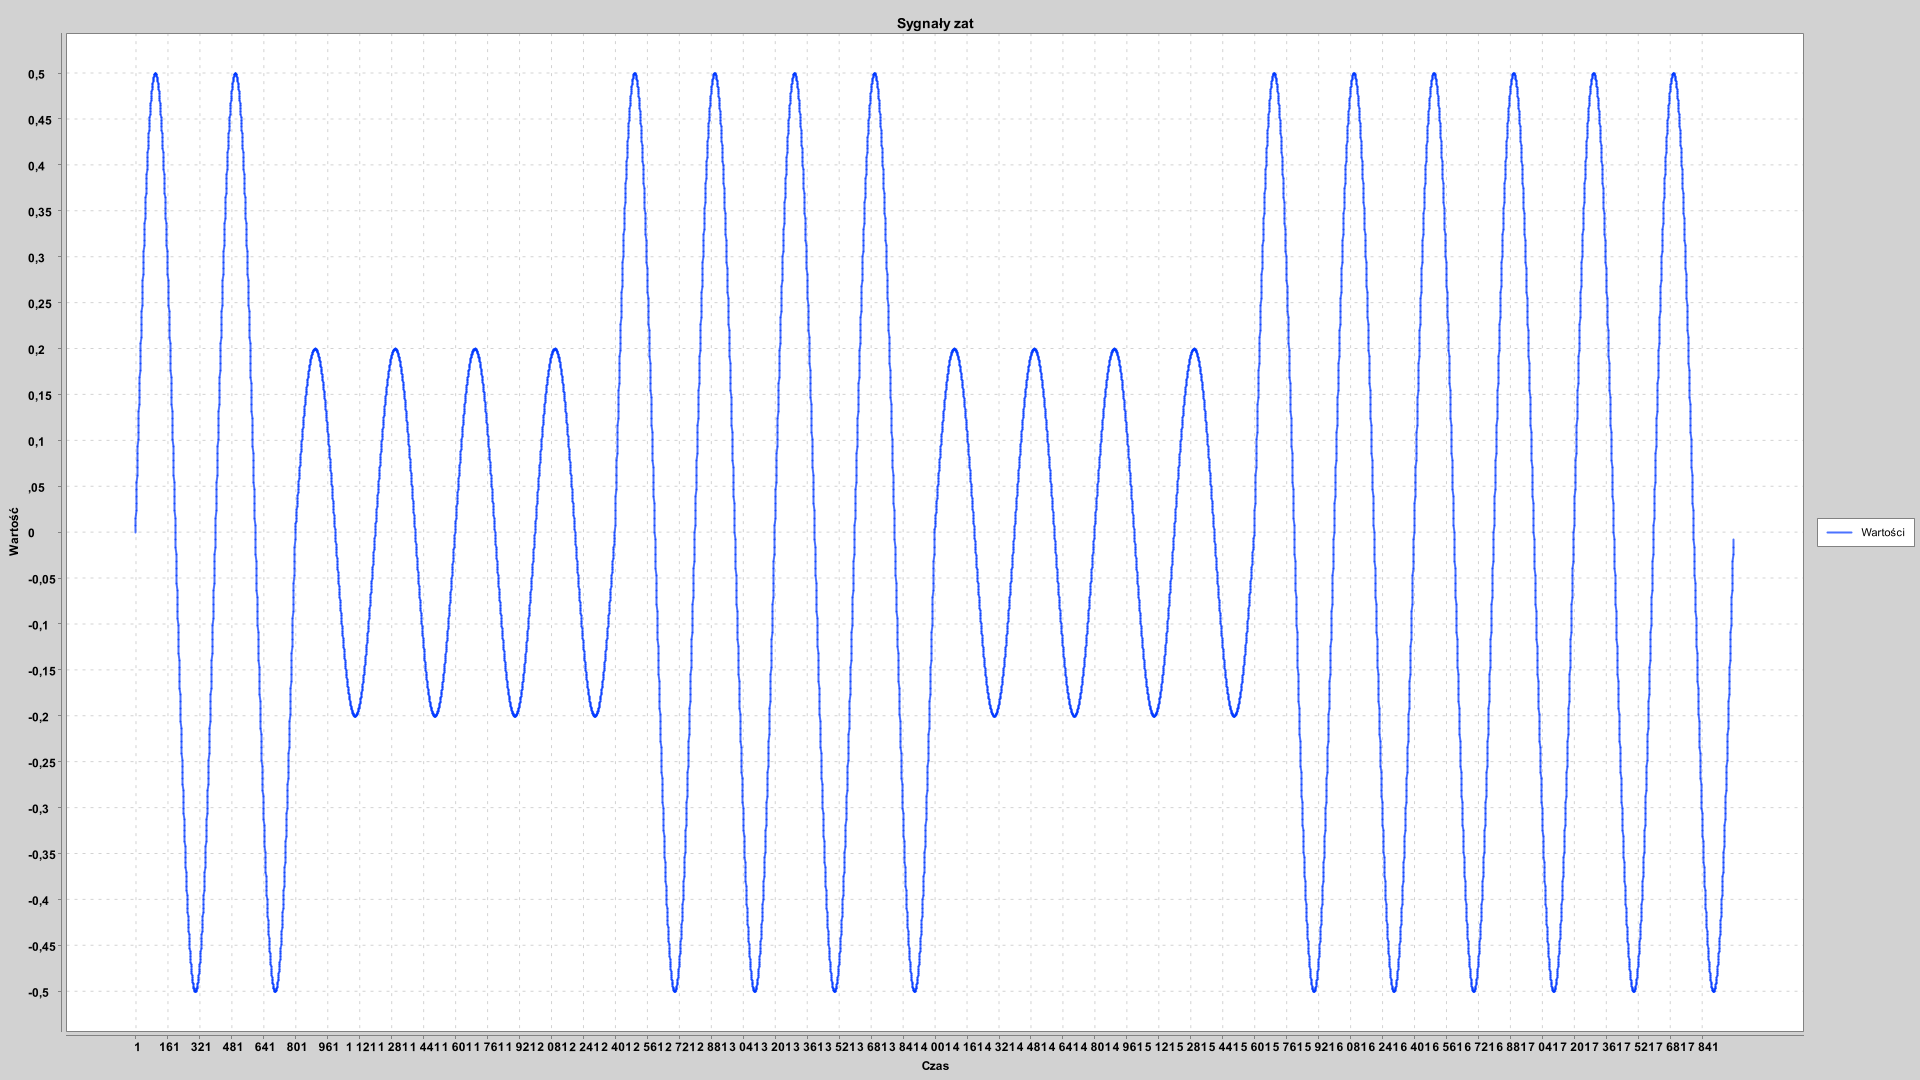
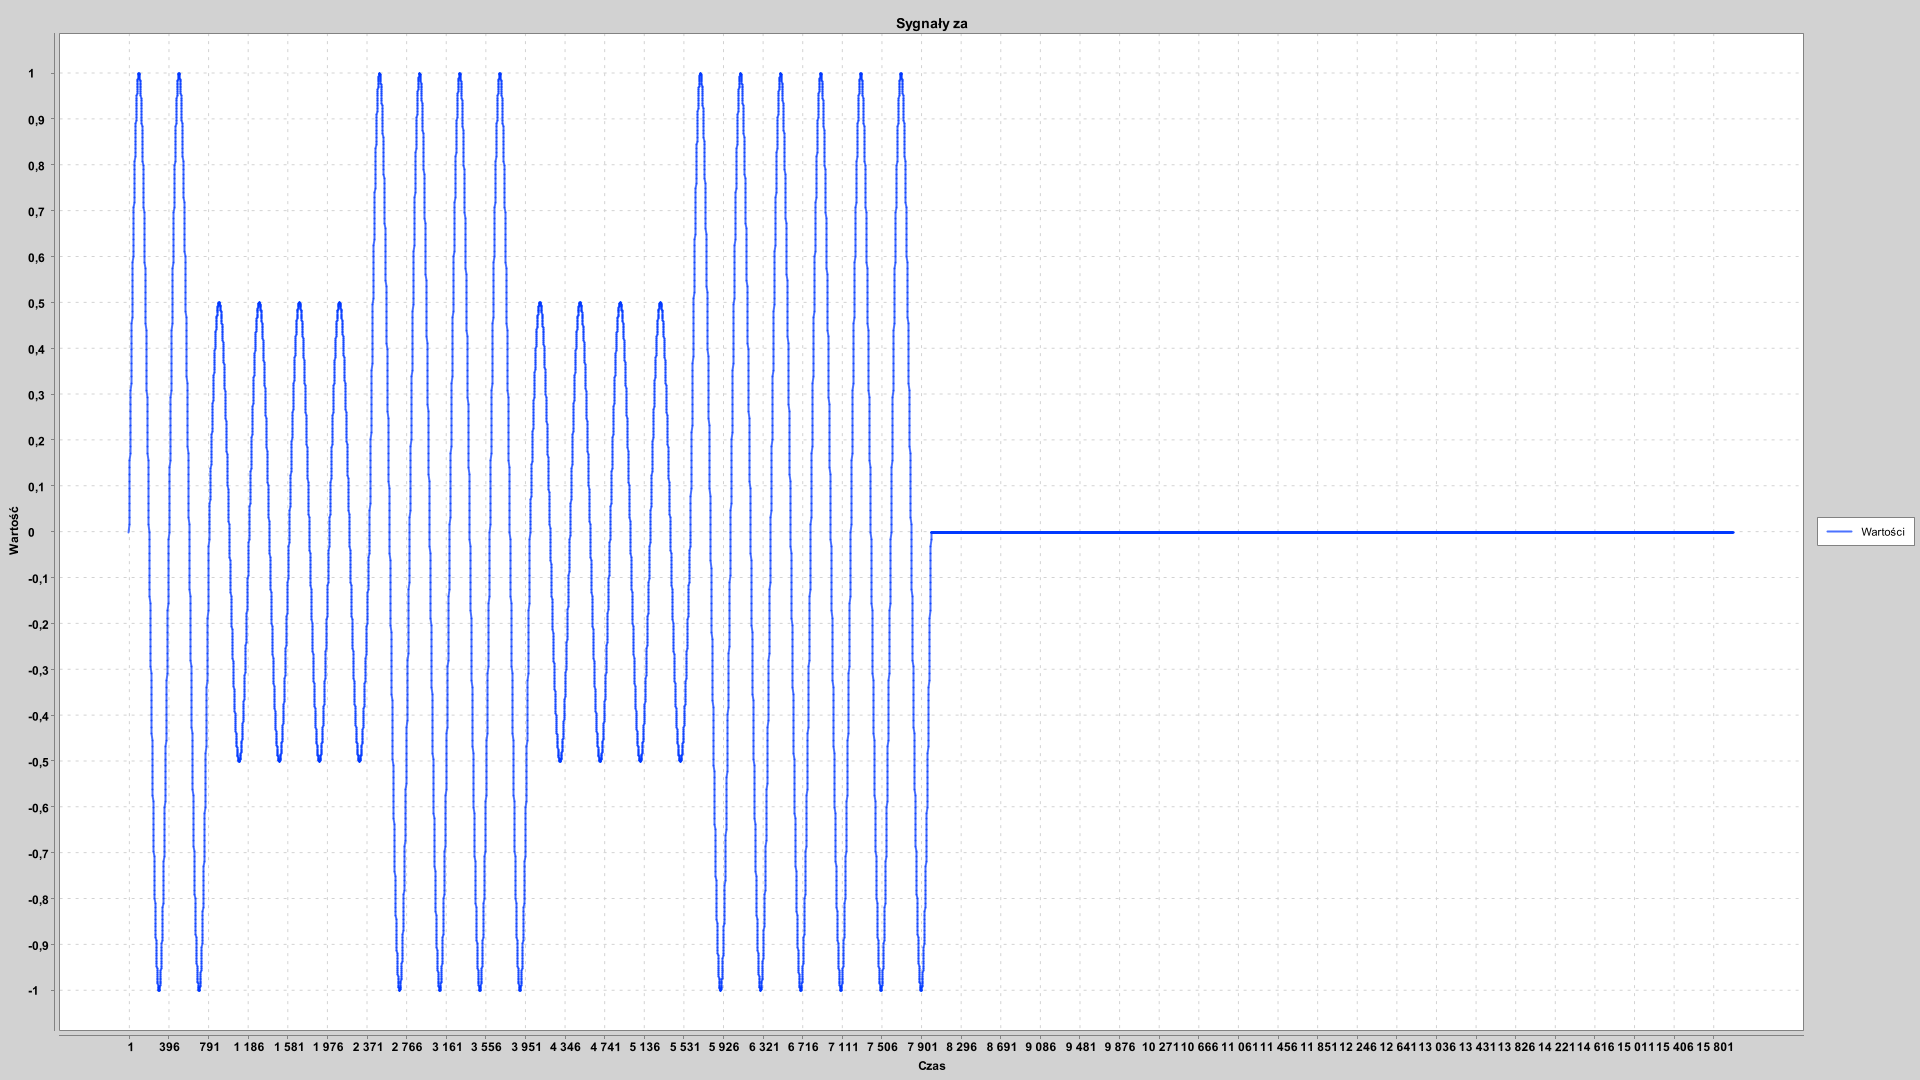
lab4 some changes

diff --git a/src/Lab4/Main.java b/src/Lab4/Main.java
@@ -1,5 +1,6 @@
 package Lab4;
 
+import edu.emory.mathcs.jtransforms.fft.DoubleFFT_1D;
 import org.knowm.xchart.BitmapEncoder;
 import org.knowm.xchart.XYChart;
 import org.knowm.xchart.XYChartBuilder;
@@ -8,8 +9,8 @@ import org.knowm.xchart.style.markers.SeriesMarkers;
 
 import java.io.IOException;
 
-import static java.lang.Math.PI;
-import static java.lang.Math.sin;
+import static java.lang.Math.*;
+import static java.lang.Math.log10;
 
 public class Main {
     public static void plot1(){
@@ -19,12 +20,12 @@ public class Main {
         double tb = tc / bit.length;
         int N = (int) (fs * tc);
         int w = 2;
-        double a1 =  0.2;
-        double a2 =  0.5;
-        double fn = w *(1/tb);
+        double a1 =  0.5;
+        double a2 =  1.0;
+        double fn = w * (1/tb);
         int tbp = (int) (tb * fs);
 
-        double[] za = new double[N];
+        double[] za = new double[N*2];
         int ofs = 0;
         for (int i = 0; i <bit.length; i++) {
             int bitIndex = bit[i];
@@ -42,7 +43,7 @@ public class Main {
         }
 
         int ofs1 = 0;
-        double[] zp = new double[N];
+        double[] zp = new double[N*2];
         for (int i = 0; i <bit.length; i++) {
             int bitIndex = bit[i];
             for(int j = 0;j<tbp;j++) {
@@ -59,7 +60,7 @@ public class Main {
         }
 
         int ofs2 = 0;
-        double[] zf = new double[N];
+        double[] zf = new double[N*2];
         double fn1 = (w + 1) / tb;
         double fn2 = (w + 2) / tb;
         for (int i = 0; i <bit.length; i++) {
@@ -76,13 +77,13 @@ public class Main {
             ofs2 = ofs2 + tbp;
         }
 
-        XYChart chartA = new XYChartBuilder().width(1920).height(1080).title("Sygnały zat").xAxisTitle("Czas").yAxisTitle("Wartość").build();
+        XYChart chartA = new XYChartBuilder().width(1920).height(1080).title("Sygnały za").xAxisTitle("Czas").yAxisTitle("Wartość").build();
         XYSeries seriesA = (XYSeries) chartA.addSeries("Wartości", null, za).setMarker(SeriesMarkers.NONE);
 
-        XYChart chartP = new XYChartBuilder().width(1920).height(1080).title("Sygnały zpt").xAxisTitle("Czas").yAxisTitle("Wartość").build();
+        XYChart chartP = new XYChartBuilder().width(1920).height(1080).title("Sygnały zp").xAxisTitle("Czas").yAxisTitle("Wartość").build();
         XYSeries seriesP = (XYSeries) chartP.addSeries("Wartości", null, zp).setMarker(SeriesMarkers.NONE);
 
-        XYChart chartF = new XYChartBuilder().width(1920).height(1080).title("Sygnały zft").xAxisTitle("Czas").yAxisTitle("Wartość").build();
+        XYChart chartF = new XYChartBuilder().width(1920).height(1080).title("Sygnały zf").xAxisTitle("Czas").yAxisTitle("Wartość").build();
         XYSeries seriesF = (XYSeries) chartF.addSeries("Wartości", null, zf).setMarker(SeriesMarkers.NONE);
 
         try {
@@ -92,7 +93,57 @@ public class Main {
         } catch (IOException e) {
             e.printStackTrace();
         }
+
+        DoubleFFT_1D fftA = new DoubleFFT_1D(N);
+        fftA.complexForward(za);
+
+        DoubleFFT_1D fftP = new DoubleFFT_1D(N);
+        fftP.complexForward(zp);
+
+        DoubleFFT_1D fftF = new DoubleFFT_1D(N);
+        fftF.complexForward(zf);
+
+        // Calculate magnitude spectra
+        double[] widmaA = new double[N / 2 + 1];
+        double[] widmaP = new double[N / 2 + 1];
+        double[] widmaF = new double[N / 2 + 1];
+
+        for (int k = 0; k < widmaA.length; k++) {
+            double realVal = za[2 * k];
+            double imagVal = za[2 * k + 1];
+            widmaA[k] = Math.sqrt(realVal * realVal + imagVal * imagVal);
+        }
+
+        for (int k = 0; k < widmaP.length; k++) {
+            double realVal = zp[2 * k];
+            double imagVal = zp[2 * k + 1];
+            widmaP[k] = Math.sqrt(realVal * realVal + imagVal * imagVal);
+        }
+
+        for (int k = 0; k < widmaF.length; k++) {
+            double realVal = zf[2 * k];
+            double imagVal = zf[2 * k + 1];
+            widmaF[k] = Math.sqrt(realVal * realVal + imagVal * imagVal);
+        }
+
+        XYChart chartWiadmaA = new XYChartBuilder().width(1920).height(1080).title("Sygnały za_widmo").xAxisTitle("Czas").yAxisTitle("Wartość").build();
+        XYSeries seriesWidmaA = (XYSeries) chartWiadmaA.addSeries("Wartości", null, widmaA).setMarker(SeriesMarkers.NONE);
+
+        XYChart chartWidmaP = new XYChartBuilder().width(1920).height(1080).title("Sygnały zp_widmo").xAxisTitle("Czas").yAxisTitle("Wartość").build();
+        XYSeries seriesWidmaP = (XYSeries) chartWidmaP.addSeries("Wartości", null, widmaP).setMarker(SeriesMarkers.NONE);
+
+        XYChart chartWidmaF = new XYChartBuilder().width(1920).height(1080).title("Sygnały zf_widmo").xAxisTitle("Czas").yAxisTitle("Wartość").build();
+        XYSeries seriesWidmaF = (XYSeries) chartWidmaF.addSeries("Wartości", null, widmaF).setMarker(SeriesMarkers.NONE);
+
+        try {
+            BitmapEncoder.saveBitmap(chartWiadmaA, "za_widmo.png", BitmapEncoder.BitmapFormat.PNG);
+            BitmapEncoder.saveBitmap(chartWidmaP, "zp_widmo.png", BitmapEncoder.BitmapFormat.PNG);
+            BitmapEncoder.saveBitmap(chartWidmaF, "zf_widmo.png", BitmapEncoder.BitmapFormat.PNG);
+        } catch (IOException e) {
+            e.printStackTrace();
+        }
     }
+
     public static void main(String[] args) {
         plot1();
     }
